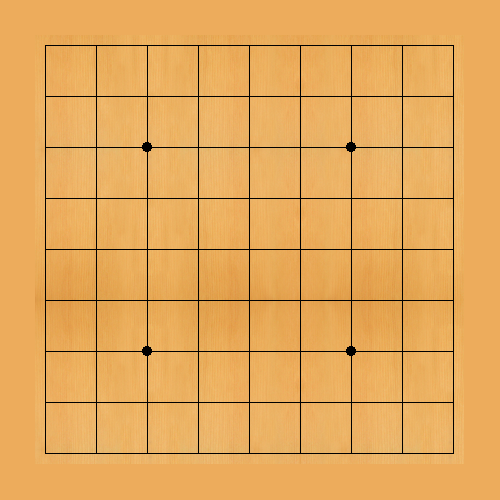
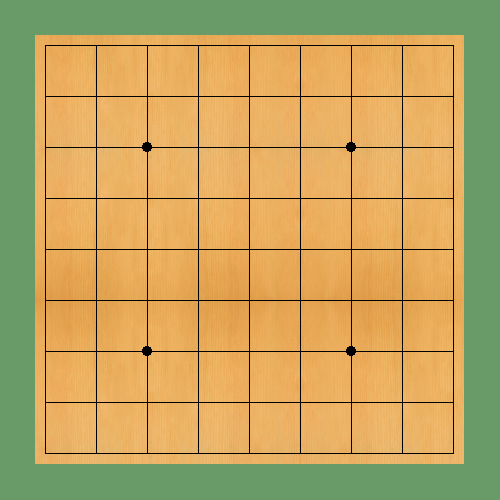
Last commit of the night.

Changed region(s): [[0.0, 0.0, 1.0, 1.0]]

diff --git a/GroupeM/trunk/src/fr/alma/go/Game.java b/GroupeM/trunk/src/fr/alma/go/Game.java
@@ -1,66 +1,57 @@
-// File Game.java
-// Last commited $Date$
-// By $Author$
-// Revision $Rev$
-//
-// Copyright (C) 2010 Alexandre Garnier & Yann Treguer
-//
-// This program is free software; you can redistribute it and/or
-// modify it under the terms of the GNU General Public License
-// as published by the Free Software Foundation; either version 2
-// of the License, or (at your option) any later version.
-//
-// This program is distributed in the hope that it will be useful,
-// but WITHOUT ANY WARRANTY; without even the implied warranty of
-// MERCHANTABILITY or FITNESS FOR A PARTICULAR PURPOSE.  See the
-// GNU General Public License for more details.
-//
-// You should have received a copy of the GNU General Public License
-// along with this program; if not, write to the Free Software
-// Foundation, Inc., 51 Franklin Street, Fifth Floor, Boston, MA  02110-1301, USA.
-//
-// The above copyright notice and this permission notice shall be
-// included in all copies or substantial portions of this program.
-
 package fr.alma.go;
 
 import fr.alma.go.goban.Goban;
 import fr.alma.go.goban.Place;
-import fr.alma.go.interfaces.IPlayer;
-import fr.alma.go.player.Computer;
-import fr.alma.go.player.Human;
-import fr.alma.go.ui.GUI;
+import fr.alma.go.heuristics.Computer;
+import fr.alma.go.ui.GoPanel;
 
 public class Game {
 
-	/**
-	 * @param args
-	 */
-	public static void main(String[] args) {
-		Goban goban = new Goban();
-		GUI.init(goban);
-		IPlayer black = new Human('b');
-		IPlayer white = new Computer(false, 1);
-		boolean turn = true; // true for black turn, false for white turn
-		while (true) {
-			if (turn) {
-				Place place = black.getPlace(goban);
-				int abs = place.getAbs();
-				int ord = place.getOrd();
-				goban.play(abs, ord, 'b');
-			} else {
-				Place place = white.getPlace(goban);
-				int abs = place.getAbs();
-				int ord = place.getOrd();
-				goban.play(abs, ord, 'w');
-			} // if
-			GUI.update();
-			if (goban.gameOver()) {
-				GUI.gameOver(turn);
-				break;
-			}
-			turn = !turn;
-		} // while
+	private Goban goban;
+
+	private char turn;
+
+	private boolean CPUTurn;
+
+	public Game() {
+		goban = new Goban();
+		turn = 'b';
+	}
+
+	public void initHumanCPU() {
+		new Thread() {
+			public void run() {
+				Computer cpu = new Computer(false, 1);
+				CPUTurn = false;
+				while (!goban.gameOver()) {
+					if (CPUTurn) {
+						Place place = cpu.getPlace(goban);
+						goban.play(place.getAbs(), place.getOrd(), turn);
+						// ACTUALISER GoFrame
+						CPUTurn = false;
+						switchTurn();
+					} // if
+				} // while
+			} // void run()
+		};
+	} // void initHumanCPU
+
+	public boolean play(int abs, int ord) {
+		boolean ok = goban.play(abs, ord, turn);
+		if (ok) {
+			// ACTUALISER GoFrame
+			this.switchTurn();
+			return true;
+		}
+		return false;
+	}
+
+	private void switchTurn() {
+		if (turn == 'b') {
+			turn = 'w';
+		} else {
+			turn = 'w';
+		} // if
 	}
 
 }

diff --git a/GroupeM/trunk/src/fr/alma/go/ui/GoPanel.java b/GroupeM/trunk/src/fr/alma/go/ui/GoPanel.java
@@ -10,31 +10,30 @@ import java.io.IOException;
 import javax.imageio.ImageIO;
 import javax.swing.JPanel;
 
-public class GoPanel extends JPanel implements MouseListener {
-	
-	private int abs;
-	
-	private int ord;
-	
-	private MouseAdapter click;
-	
-	public GoPanel(){
-		super();
-		click = new MouseAdapter() {
+import fr.alma.go.Game;
 
-            @Override
-            public void mouseClicked(MouseEvent e) {
-                mouseClicked(e);
-            }
-        };
+public class GoPanel extends JPanel {
+
+	private static final long serialVersionUID = 1L;
+	private MouseAdapter click;
+	private Game game;
+
+	public GoPanel(Game gm) {
+		super();
+		game = gm;
 	}
-	
-	public int getAbs(){
-		return abs;
+
+	public void enableClick() {
+		click = new MouseAdapter() {
+			@Override
+			public void mouseClicked(MouseEvent e) {
+				processMouseClicked(e);
+			}
+		};
 	}
-	
-	public int getOrd(){
-		return ord;
+
+	public void disableClick() {
+		removeMouseListener(click);
 	}
 
 	public void paintComponent(Graphics g) {
@@ -51,37 +50,21 @@ public class GoPanel extends JPanel implements MouseListener {
 		} // try
 	} // void paintComponent(Graphics)
 
-	@Override
-	public void mouseClicked(MouseEvent event) {
-		// TODO Auto-generated method stub
-		abs=event.getX();
-		ord=event.getY();
-		StaticDummy.print(abs+";"+ord);
-		
-	}
+	public void processMouseClicked(final MouseEvent event) {
+		boolean ok = false;
+		while (!ok) {
+			int abs = event.getX();
+			int ord = event.getY();
+			if (abs < 500 && ord < 500) {
+				abs = ((abs - 2) * 9) / 500;
+				ord = ((ord - 45) * 9) / 500;
+				ok = game.play(abs, ord);
+			} // if
+		} // while
+	} // void processMouseClicked(MouseEvent)
 
-	@Override
-	public void mouseEntered(MouseEvent arg0) {
-		// TODO Auto-generated method stub
-		
-	}
-
-	@Override
-	public void mouseExited(MouseEvent arg0) {
-		// TODO Auto-generated method stub
-		
-	}
-
-	@Override
-	public void mousePressed(MouseEvent arg0) {
-		// TODO Auto-generated method stub
-		
-	}
-
-	@Override
-	public void mouseReleased(MouseEvent arg0) {
-		// TODO Auto-generated method stub
-		
+	public MouseListener getClick() {
+		return click;
 	}
 
 }

diff --git a/GroupeM/trunk/src/fr/alma/go/ui/GoFrame.java b/GroupeM/trunk/src/fr/alma/go/ui/GoFrame.java
@@ -1,32 +1,62 @@
 package fr.alma.go.ui;
 
-import java.awt.BorderLayout;
+import java.awt.Color;
 import java.awt.event.ActionEvent;
 import java.awt.event.ActionListener;
-import javax.swing.ImageIcon;
+
 import javax.swing.JFrame;
-import javax.swing.JLabel;
+import javax.swing.JMenu;
+import javax.swing.JMenuBar;
+import javax.swing.JMenuItem;
+
+import fr.alma.go.Game;
 
 public class GoFrame extends JFrame {
 
-	private JLabel label;
-
+	private static final long serialVersionUID = 1L;
+	
 	private GoPanel goPan;
+	
+	private Game game;
+	
+	private JMenuBar barreMenu = new JMenuBar();
+	private JMenu jeu = new JMenu("Let's go play go !");
+	private JMenu nouv = new JMenu("New game");
+	private JMenuItem item1 = new JMenuItem("Human vs CPU");
+	private JMenuItem item2 = new JMenuItem("Human vs Human");
+	private JMenuItem item3 = new JMenuItem("Alien vs Predator");
+	private JMenuItem quitter = new JMenuItem("Leave me alone !");
 
 	public GoFrame() {
-		ImageIcon gobanImage = new ImageIcon(
-				"src/fr/alma/go/ui/images/Goban2.png");
 		this.setTitle("Atari Go");
-		this.setSize(gobanImage.getIconWidth(), gobanImage.getIconHeight()); // 4;23
+		this.setSize(600, 600); // 4;23
 		this.setLocationRelativeTo(null);
 		this.setDefaultCloseOperation(JFrame.EXIT_ON_CLOSE);
 		this.setResizable(false);
+		
+		game=new Game();
 
-		goPan = new GoPanel();
+		this.setBackground(new Color(105, 155, 105));
+		goPan = new GoPanel(game);
+		goPan.enableClick();
 		this.setContentPane(goPan);
-		this.addMouseListener(goPan);
-		label=new JLabel("Bob");
-		goPan.add(label, BorderLayout.NORTH);
+		this.addMouseListener(goPan.getClick());
+
+		quitter.addActionListener(new ActionListener() {
+
+			public void actionPerformed(ActionEvent arg0) {
+				System.exit(0);
+			}
+		});
+
+		nouv.add(item1);
+		nouv.add(item2);
+		nouv.add(item3);
+		jeu.add(nouv);
+		jeu.addSeparator();
+		jeu.add(quitter);
+		barreMenu.add(jeu);
+		setJMenuBar(barreMenu);
 
 		this.setVisible(true);
 	} // GoFrame()

diff --git a/GroupeM/trunk/src/fr/alma/go/heuristics/Computer.java b/GroupeM/trunk/src/fr/alma/go/heuristics/Computer.java
@@ -1,14 +1,10 @@
-package fr.alma.go.player;
+package fr.alma.go.heuristics;
 
 import fr.alma.go.goban.Goban;
 import fr.alma.go.goban.Place;
-import fr.alma.go.heuristics.Beginner;
-import fr.alma.go.heuristics.Expert;
-import fr.alma.go.heuristics.Medium;
 import fr.alma.go.interfaces.IHeuristics;
-import fr.alma.go.interfaces.IPlayer;
 
-public class Computer implements IPlayer {
+public class Computer{
 
 	private boolean color;
 
@@ -32,7 +28,6 @@ public class Computer implements IPlayer {
 		} // switch
 	} // Computer()
 
-	@Override
 	public Place getPlace(Goban goban) {
 		return level.getBestPlace(goban,color);
 	} // Place getPlace()

diff --git a/GroupeM/trunk/src/fr/alma/go/Launcher.java b/GroupeM/trunk/src/fr/alma/go/Launcher.java
@@ -1,6 +1,8 @@
-package fr.alma.go.ui;
+package fr.alma.go;
 
-public class FrameDummyLauncher {
+import fr.alma.go.ui.GoFrame;
+
+public class Launcher {
 
 	/**
 	 * @param args
